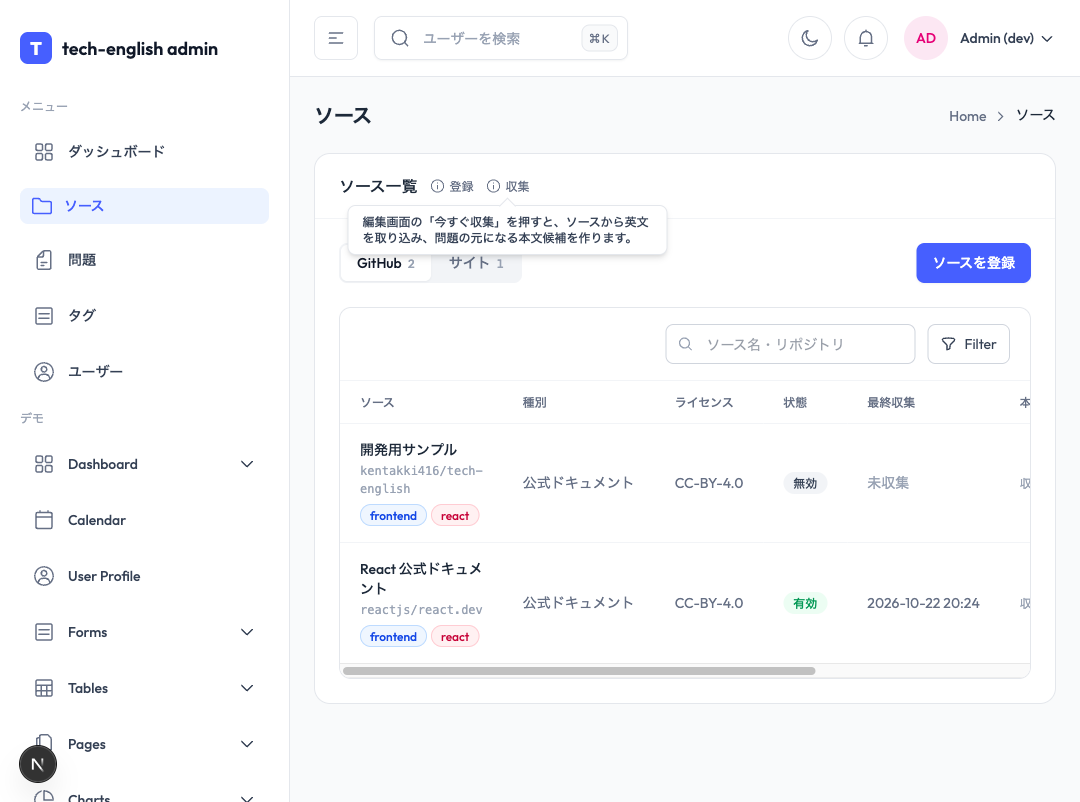
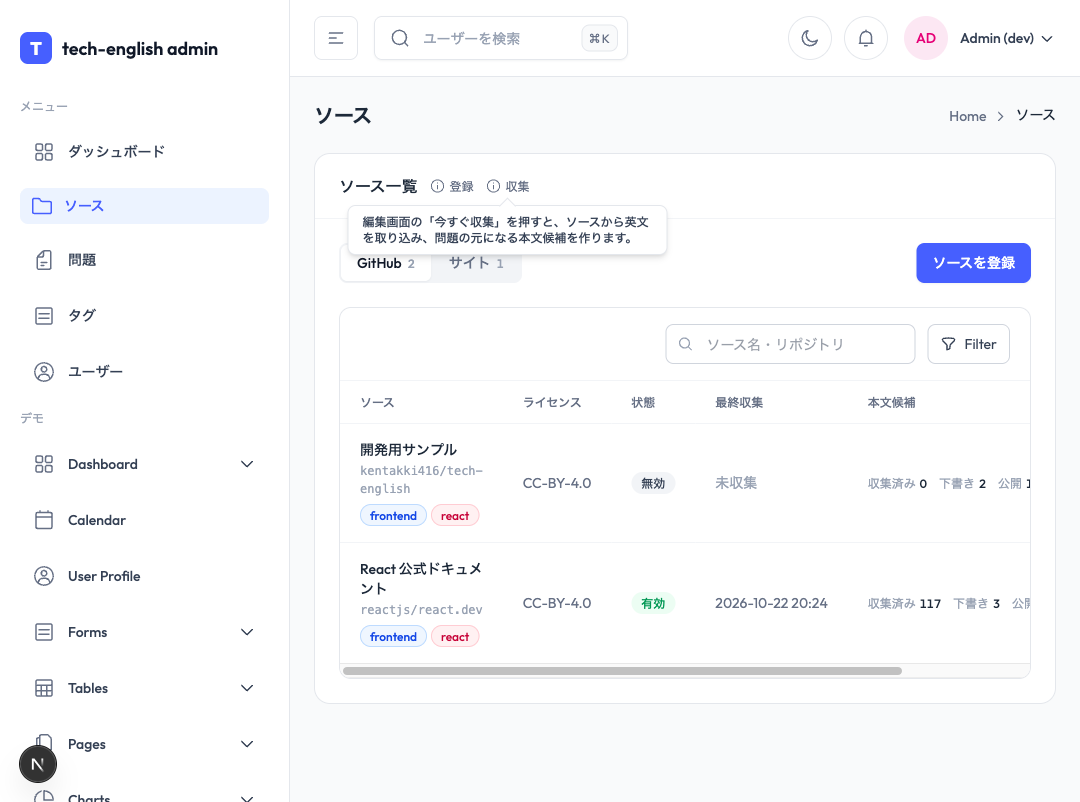
fix(admin): pr-review（#103）の指摘を直す（ライセンスを確認できないリポジトリを読み込んでも選んだ技術タグを残し、登録の「詳細」のブランチの欄をなくして確かめていないブランチのライセンスで登録できないようにする。部品の名前・コメント・設計書・ログイン画面のデモの種別を今の挙動に合わせる）

diff --git a/apps/admin/src/components/features/source/SourceCreateForm.tsx b/apps/admin/src/components/features/source/SourceCreateForm.tsx
@@ -1,7 +1,7 @@
 "use client"
 
 import Link from "next/link"
-import { type FormEvent, Fragment, type KeyboardEvent, startTransition, useActionState, useState } from "react"
+import { type FormEvent, type KeyboardEvent, startTransition, useActionState, useState } from "react"
 
 import type { GetSourceResponse, GetTagListResponse, SuggestSourceResponse } from "@repo/api-schema"
 
@@ -9,11 +9,10 @@ import { createSourceAction, type SourceFormState } from "@/app/(dashboard)/sour
 import {
   CollectionToggle,
   Field,
-  GitHubBranchField,
   GitHubTargetFields,
-  LicenseFields,
   errorHintClass,
   Section,
+  WebsiteLicenseFields,
   WebsiteTargetFields,
 } from "@/components/features/source/SourceFormParts"
 import { SourceSuggestionSummary } from "@/components/features/source/SourceSuggestionSummary"
@@ -69,7 +68,7 @@ const CHECKLISTS: Record<SourceFetchType, string[]> = {
 }
 
 /**
- * 「詳細」の外の欄は表示名だけなので、表示名以外の欄の入力エラーは「詳細」の中にある
+ * 「詳細」の外の欄は表示名だけなので、表示名以外の欄の入力エラーは「詳細」の中にある（読み込んだ値のエラーは欄が無いので読み込んだ内容の下に出す）
  */
 const hasDetailFieldErrors = (state: SourceFormState): boolean =>
   Object.entries(state.errors ?? {}).some(([key, messages]) => key !== "name" && (messages?.length ?? 0) > 0)
@@ -100,12 +99,14 @@ const fetchSourceSuggestion = async (fetchType: SourceFetchType, url: string): P
 }
 
 /**
- * リポジトリ・サイトの URL と GitHub のライセンスは読み込んだ値を送る（「詳細」でも直せない。変えるときは URL を読み込み直す）
+ * リポジトリ・サイトの URL と GitHub のブランチ・ライセンスは読み込んだ値を送る（「詳細」でも直せない。変えるときは URL を読み込み直す）。
+ * ライセンスは読み込んだブランチで検出するので、ブランチだけを直せると確かめていないライセンスで登録できてしまう
  */
-function SuggestionHiddenField({ suggestion }: { suggestion: SuggestSourceResponse }) {
+function SuggestionHiddenFields({ suggestion }: { suggestion: SuggestSourceResponse }) {
   if (suggestion.fetch_type === "website") return <input name="site_url" type="hidden" value={suggestion.site_url} />
   return (
     <>
+      <input name="branch" type="hidden" value={suggestion.branch} />
       <input name="license_spdx" type="hidden" value={suggestion.detected_license.license_spdx ?? ""} />
       <input name="license_url" type="hidden" value={suggestion.detected_license.license_url ?? ""} />
       <input name="repository" type="hidden" value={suggestion.repository} />
@@ -162,8 +163,8 @@ export function SourceCreateForm({
   const formState: SourceFormState = submission?.revision === revision && state !== submission.stateAtSubmit ? state : {}
   const getFieldError = (key: string): string | undefined => formState.errors?.[key]?.[0]
   const hasFieldErrors = Object.values(formState.errors ?? {}).some((messages) => (messages?.length ?? 0) > 0)
-  const gitHubLicenseError = suggestion?.fetch_type === "github_repository"
-    ? getFieldError("license_spdx") ?? getFieldError("license_url")
+  const loadedValueError = suggestion?.fetch_type === "github_repository"
+    ? getFieldError("branch") ?? getFieldError("license_spdx") ?? getFieldError("license_url")
     : undefined
 
   /**
@@ -220,7 +221,7 @@ export function SourceCreateForm({
     <div className="grid gap-6 xl:grid-cols-3">
       <form className="space-y-6 xl:col-span-2" noValidate onSubmit={handleSubmit}>
         <input name="fetch_type" type="hidden" value={fetchType} />
-        {suggestion && <SuggestionHiddenField suggestion={suggestion} />}
+        {suggestion && <SuggestionHiddenFields suggestion={suggestion} />}
         {fetchType === "github_repository" && <input name="is_enabled" type="hidden" value={String(isEnabled)} />}
 
         {formState.message && (
@@ -259,11 +260,14 @@ export function SourceCreateForm({
             </div>
           </Field>
           {suggestion && <SourceSuggestionSummary suggestion={suggestion} />}
-          {gitHubLicenseError && <p className={errorHintClass}>{gitHubLicenseError}</p>}
+          {loadedValueError && <p className={errorHintClass}>{loadedValueError}</p>}
         </Section>
 
-        {suggestion && isLicenseResolved(suggestion) && (
-          <details className={cardClass} open={isDetailsOpen} onToggle={(event) => setIsDetailsOpen(event.currentTarget.open)}>
+        {/**
+          * 登録できないリポジトリでも unmount しない。読み込み直しても、選んだ技術タグを残すため
+          */}
+        {suggestion && (
+          <details className={cardClass} hidden={!isLicenseResolved(suggestion)} open={isDetailsOpen} onToggle={(event) => setIsDetailsOpen(event.currentTarget.open)}>
             <summary className={`cursor-pointer px-6 py-5 ${titleClass}`}>詳細</summary>
             <div className={`${cardBodyClass} space-y-8`}>
               <div className="space-y-5">
@@ -274,16 +278,14 @@ export function SourceCreateForm({
               <div className="space-y-5">
                 <h4 className={detailGroupTitleClass}>取得元</h4>
                 {suggestion.fetch_type === "github_repository" ? (
-                  <Fragment key={revision}>
-                    <GitHubBranchField defaultBranch={suggestion.branch} error={getFieldError("branch")} />
-                    <GitHubTargetFields
-                      defaults={{
-                        excludeGlobs: [],
-                        includeGlobs: suggestion.include_globs,
-                      }}
-                      getFieldError={getFieldError}
-                    />
-                  </Fragment>
+                  <GitHubTargetFields
+                    key={revision}
+                    defaults={{
+                      excludeGlobs: [],
+                      includeGlobs: suggestion.include_globs,
+                    }}
+                    getFieldError={getFieldError}
+                  />
                 ) : (
                   <WebsiteTargetFields
                     key={revision}
@@ -295,7 +297,7 @@ export function SourceCreateForm({
               {suggestion.fetch_type === "website" && (
                 <div className="space-y-5">
                   <h4 className={detailGroupTitleClass}>ライセンス</h4>
-                  <LicenseFields
+                  <WebsiteLicenseFields
                     getFieldError={getFieldError}
                     licenseOptions={[...allowedLicenses, personalUseLicense]}
                     licenseSpdx={licenseSpdx}

diff --git a/apps/admin/src/components/features/source/SourceFormParts.tsx b/apps/admin/src/components/features/source/SourceFormParts.tsx
@@ -71,17 +71,6 @@ export function Field({
 }
 
 /**
- * ブランチは登録でだけ決め、編集では変えられないので GitHubTargetFields と分ける
- */
-export function GitHubBranchField({ defaultBranch, error }: { defaultBranch: string, error?: string }) {
-  return (
-    <Field error={error} hint="既定はリポジトリの default branch。" htmlFor="branch" label="ブランチ">
-      <input className={`${inputClass} font-mono sm:w-60`} defaultValue={defaultBranch} id="branch" name="branch" />
-    </Field>
-  )
-}
-
-/**
  * GitHub の取得元の欄（対象パス・除外パス）
  */
 export function GitHubTargetFields({
@@ -146,7 +135,7 @@ export function WebsiteTargetFields({
 /**
  * サイトのソースのライセンスとライセンスの記載がある URL。値は呼び出し側の state（読み込みで値を入れるため）
  */
-export function LicenseFields({
+export function WebsiteLicenseFields({
   getFieldError,
   licenseOptions,
   licenseSpdx,

diff --git a/apps/admin/src/components/features/source/SourceSuggestionSummary.tsx b/apps/admin/src/components/features/source/SourceSuggestionSummary.tsx
@@ -40,7 +40,7 @@ export function SourceSuggestionSummary({ suggestion }: { suggestion: SuggestSou
               <span className="font-mono">{suggestion.repository}</span>（ブランチ <span className="font-mono">{suggestion.branch}</span>）
               {suggestion.branch !== suggestion.default_branch && (
                 <span className="mt-1 block text-theme-xs text-warning-600 dark:text-warning-500">
-                  default branch（<span className="font-mono">{suggestion.default_branch}</span>）ではありません。違っていれば詳細で直してください
+                  default branch（<span className="font-mono">{suggestion.default_branch}</span>）ではありません。違っていれば URL を直して読み込み直してください
                 </span>
               )}
             </>

diff --git a/apps/admin/src/components/features/source/SourceEditForm.tsx b/apps/admin/src/components/features/source/SourceEditForm.tsx
@@ -11,8 +11,8 @@ import {
   CollectionToggle,
   Field,
   GitHubTargetFields,
-  LicenseFields,
   Section,
+  WebsiteLicenseFields,
   WebsiteTargetFields,
 } from "@/components/features/source/SourceFormParts"
 import { TagPicker } from "@/components/features/source/TagPicker"
@@ -123,7 +123,7 @@ export function SourceEditForm({
               />
             </Section>
             <Section desc="ライセンスの記載が無いサイトは「個人の学習用」を選びます（ローカルでだけ使えます）。" title="ライセンス">
-              <LicenseFields
+              <WebsiteLicenseFields
                 getFieldError={getFieldError}
                 licenseOptions={[...allowedLicenses, personalUseLicense]}
                 licenseSpdx={licenseSpdx}

diff --git a/apps/mobile/src/app/sign-in.tsx b/apps/mobile/src/app/sign-in.tsx
@@ -70,7 +70,6 @@ export default function SignInScreen() {
 
         <View style={[appStyles.card, styles.demo]}>
           <View style={styles.demoHeader}>
-            <Text style={styles.docsBadge}>Docs</Text>
             <Text style={appStyles.caption}>React 公式ドキュメント</Text>
           </View>
           <View style={{ paddingRight: 14, paddingTop: 14 }}>
@@ -175,14 +174,6 @@ const styles = StyleSheet.create({
   devLoginLink: {
     color: THEME_COLORS.fgMuted,
     textDecorationLine: "underline",
-  },
-  docsBadge: {
-    borderColor: "rgba(243, 178, 76, 0.4)",
-    borderRadius: 4,
-    borderWidth: 1,
-    color: THEME_COLORS.amber,
-    fontSize: 11,
-    paddingHorizontal: 5,
   },
   error: {
     color: THEME_COLORS.wrong,

diff --git a/apps/web/src/components/features/auth/SignInDemo.tsx b/apps/web/src/components/features/auth/SignInDemo.tsx
@@ -30,7 +30,6 @@ export function SignInDemo() {
     <div className="group/tilt" ref={tiltRef}>
       <div className={`relative overflow-hidden rounded-xl border border-line bg-surface shadow-[0_30px_80px_rgb(0_0_0/0.35)] ${TILT_CARD_CLASS}`}>
         <div className="flex items-center gap-2 border-b border-line px-4 py-2.5 text-xs text-fg-muted">
-          <span className="rounded border border-amber/40 px-1.5 py-px text-[11px] text-amber">Docs</span>
           React 公式ドキュメント
           <span className="ml-auto tabular-nums text-fg">残り 4:12</span>
         </div>

diff --git a/apps/mobile/src/components/features/passage/PassageListRow.tsx b/apps/mobile/src/components/features/passage/PassageListRow.tsx
@@ -27,7 +27,7 @@ function MyStatus({ passage }: { passage: PassageListItemResponse }) {
 }
 
 /**
- * 問題一覧の 1 行。タイトル（2 行まで）→ 種別とソース → 難易度・英単語数・制限時間・挑戦状況
+ * 問題一覧の 1 行。タイトル（2 行まで）→ ソース → 難易度・英単語数・制限時間・挑戦状況
  */
 export function PassageListRow({ passage, onPress }: { passage: PassageListItemResponse, onPress: (id: number) => void }) {
   return (

diff --git a/packages/domain/src/const/source.ts b/packages/domain/src/const/source.ts
@@ -1,5 +1,5 @@
 /**
- * ソースの種別。問題一覧の絞り込みに使う
+ * ソースの種別。登録の画面では選ばず、新しいソースは docs にする
  *
  * - docs: 公式ドキュメント
  * - github: README / RFC などリポジトリそのものの文書

diff --git a/apps/admin/CLAUDE.md b/apps/admin/CLAUDE.md
@@ -103,7 +103,7 @@ admin は DB を直接触らず、必ず Express API を経由する。tech-engl
 | --- | --- | --- |
 | `/passages/url-import` | URL から追加（ページを確認して本文候補として保存）。問題一覧のボタンから開く。**ローカルだけ**（`src/libs/environment.ts` の `isLocalEnvironment`。production ではボタンを出さず、画面は `notFound()`） | `app/(dashboard)/passages/url-import/page.tsx` + `components/features/url-import/UrlImportForm.tsx` + `app/(dashboard)/passages/url-import/actions.ts`（Server Action。確認と保存）。API は `features/url-import/url-import.api.ts`、ラベルは `url-import.labels.ts`（[url-import](../../docs/spec/url-import/README.md)） |
 | `/sources`・`/sources?fetch_type=website` | ソース一覧。上の [GitHub] [サイト]（サイトはローカルだけ）で取得方法ごとに分ける | `app/(dashboard)/sources/page.tsx` + `components/features/source/SourceTable.tsx`（取得方法で列と絞り込みを変える）+ `SourceFetchTypeTabs.tsx`（一覧と登録で共有する切り替え）+ `SourceListTitle.tsx`（カードの見出しと、説明の Tooltip）。`?fetch_type=` は `features/source/source.params.ts`、リンク先は `source.paths.ts`。ライセンスの表示名（個人の学習用）は `features/source/source.labels.ts`（[source-registration-by-url](../../docs/spec/source-registration-by-url/README.md)） |
-| `/sources/new/github`・`/sources/new/website`・`/sources/[id]` | ソースの登録・編集（サイトはローカルだけ。サイトは常に無効で、ライセンスに個人の学習用を選べる）。`/sources/new` は GitHub の登録に redirect | 登録は `SourceCreatePage.tsx` + `SourceCreateForm.tsx`（表示名と URL を読み込み、`app/api/sources/suggestion/route.ts` 経由で api の `/api/admin/source/suggestion` を呼ぶ。読んだ内容は `SourceSuggestionSummary.tsx`、読めない理由の文言は `source.labels.ts`。GitHub のライセンスは欄を出さず読み込んだ値を hidden で送り、確認できないリポジトリは `isLicenseResolved`（`source.form.ts`）で登録を止める。[source-registration-by-url](../../docs/spec/source-registration-by-url/README.md)）、編集は `SourceEditForm.tsx`（取得方法・取得元・GitHub のライセンスは欄にせず「収集の状況」に出す）、欄の部品は `SourceFormParts.tsx`（ブランチの欄 `GitHubBranchField` は登録だけ。入力の書き方の説明は `Field` の `tooltip` でラベルの横に出す）。登録・更新の Server Action は `app/(dashboard)/sources/actions.ts`。技術タグの選択は `TagPicker`（選んだ id を hidden の `tag_ids` で送る）。編集の GitHub のソースは `SourceCollectionCard`（今すぐ収集のボタンと最後の収集の状態。収集中は 3 秒ごとに `router.refresh()`。[manual-collection](../../docs/spec/manual-collection/README.md)） |
+| `/sources/new/github`・`/sources/new/website`・`/sources/[id]` | ソースの登録・編集（サイトはローカルだけ。サイトは常に無効で、ライセンスに個人の学習用を選べる）。`/sources/new` は GitHub の登録に redirect | 登録は `SourceCreatePage.tsx` + `SourceCreateForm.tsx`（表示名と URL を読み込み、`app/api/sources/suggestion/route.ts` 経由で api の `/api/admin/source/suggestion` を呼ぶ。読んだ内容は `SourceSuggestionSummary.tsx`、読めない理由の文言は `source.labels.ts`。GitHub のブランチとライセンスは欄を出さず読み込んだ値を hidden で送り、確認できないリポジトリは `isLicenseResolved`（`source.form.ts`）で登録を止める。[source-registration-by-url](../../docs/spec/source-registration-by-url/README.md)）、編集は `SourceEditForm.tsx`（取得方法・取得元・GitHub のライセンスは欄にせず「収集の状況」に出す）、欄の部品は `SourceFormParts.tsx`（入力の書き方の説明は `Field` の `tooltip` でラベルの横に出す）。登録・更新の Server Action は `app/(dashboard)/sources/actions.ts`。技術タグの選択は `TagPicker`（選んだ id を hidden の `tag_ids` で送る）。編集の GitHub のソースは `SourceCollectionCard`（今すぐ収集のボタンと最後の収集の状態。収集中は 3 秒ごとに `router.refresh()`。[manual-collection](../../docs/spec/manual-collection/README.md)） |
 | `/tags` | タグ | `app/(dashboard)/tags/page.tsx` + `components/features/tag/TagTable.tsx`（追加・編集は `TagFormModal`、削除の確認は `TagDeleteModal`）+ `app/(dashboard)/tags/actions.ts`（Server Action）。色付きのタグは `TagChip`（色 → クラスの対応表はここだけに置く） |
 | `/passages` | 問題一覧（`?status=` で状態を切り替え） | `app/(dashboard)/passages/page.tsx` + `components/features/passage/PassageTable.tsx` |
 | `/passages/[id]` | 問題の確認・修正 | `PassageReview.tsx`（タブは `QuestionsTab` / `TranslationsTab` / `GlossaryTab` / `BodyTab` / `BasicsTab`、プレビューは `PassagePreview`、読み上げの音声は `PassageAudioCard`）+ `app/(dashboard)/passages/[id]/actions.ts`（Server Action）。フォームの状態と変換は `features/passage/passage.form.ts`、ラベルは `passage.labels.ts` |
